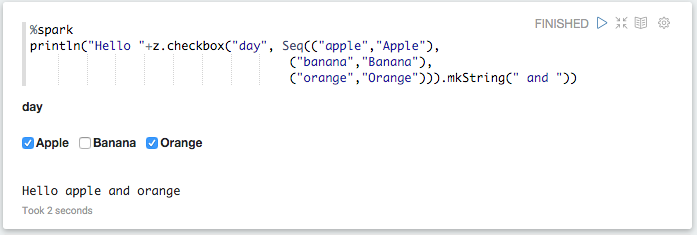
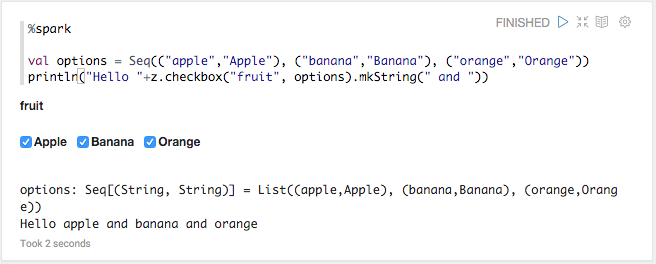
fix docs

diff --git a/docs/manual/dynamicform.md b/docs/manual/dynamicform.md
@@ -151,9 +151,8 @@ print("Hello "+z.select("day", [("1","mon"),
 
 {% highlight scala %}
 %spark
-println("Hello "+z.checkbox("fruit", Seq(("apple","Apple"),
-                                    ("banana","Banana"),
-                                    ("orange","Orange"))).mkString(" and "))
+val options = Seq(("apple","Apple"), ("banana","Banana"), ("orange","Orange"))
+println("Hello "+z.checkbox("fruit", options).mkString(" and "))
 {% endhighlight %}
 
     </div>
@@ -161,9 +160,8 @@ println("Hello "+z.checkbox("fruit", Seq(("apple","Apple"),
 
 {% highlight python %}
 %pyspark
-print("Hello "+ " and ".join(z.checkbox("fruit", [("apple","Apple"),
-                                ("banana","Banana"),
-                                ("orange","Orange")])))
+options = [("apple","Apple"), ("banana","Banana"), ("orange","Orange")]
+print("Hello "+ " and ".join(z.checkbox("fruit", options, ["apple"])))
 {% endhighlight %}
 
     </div>
